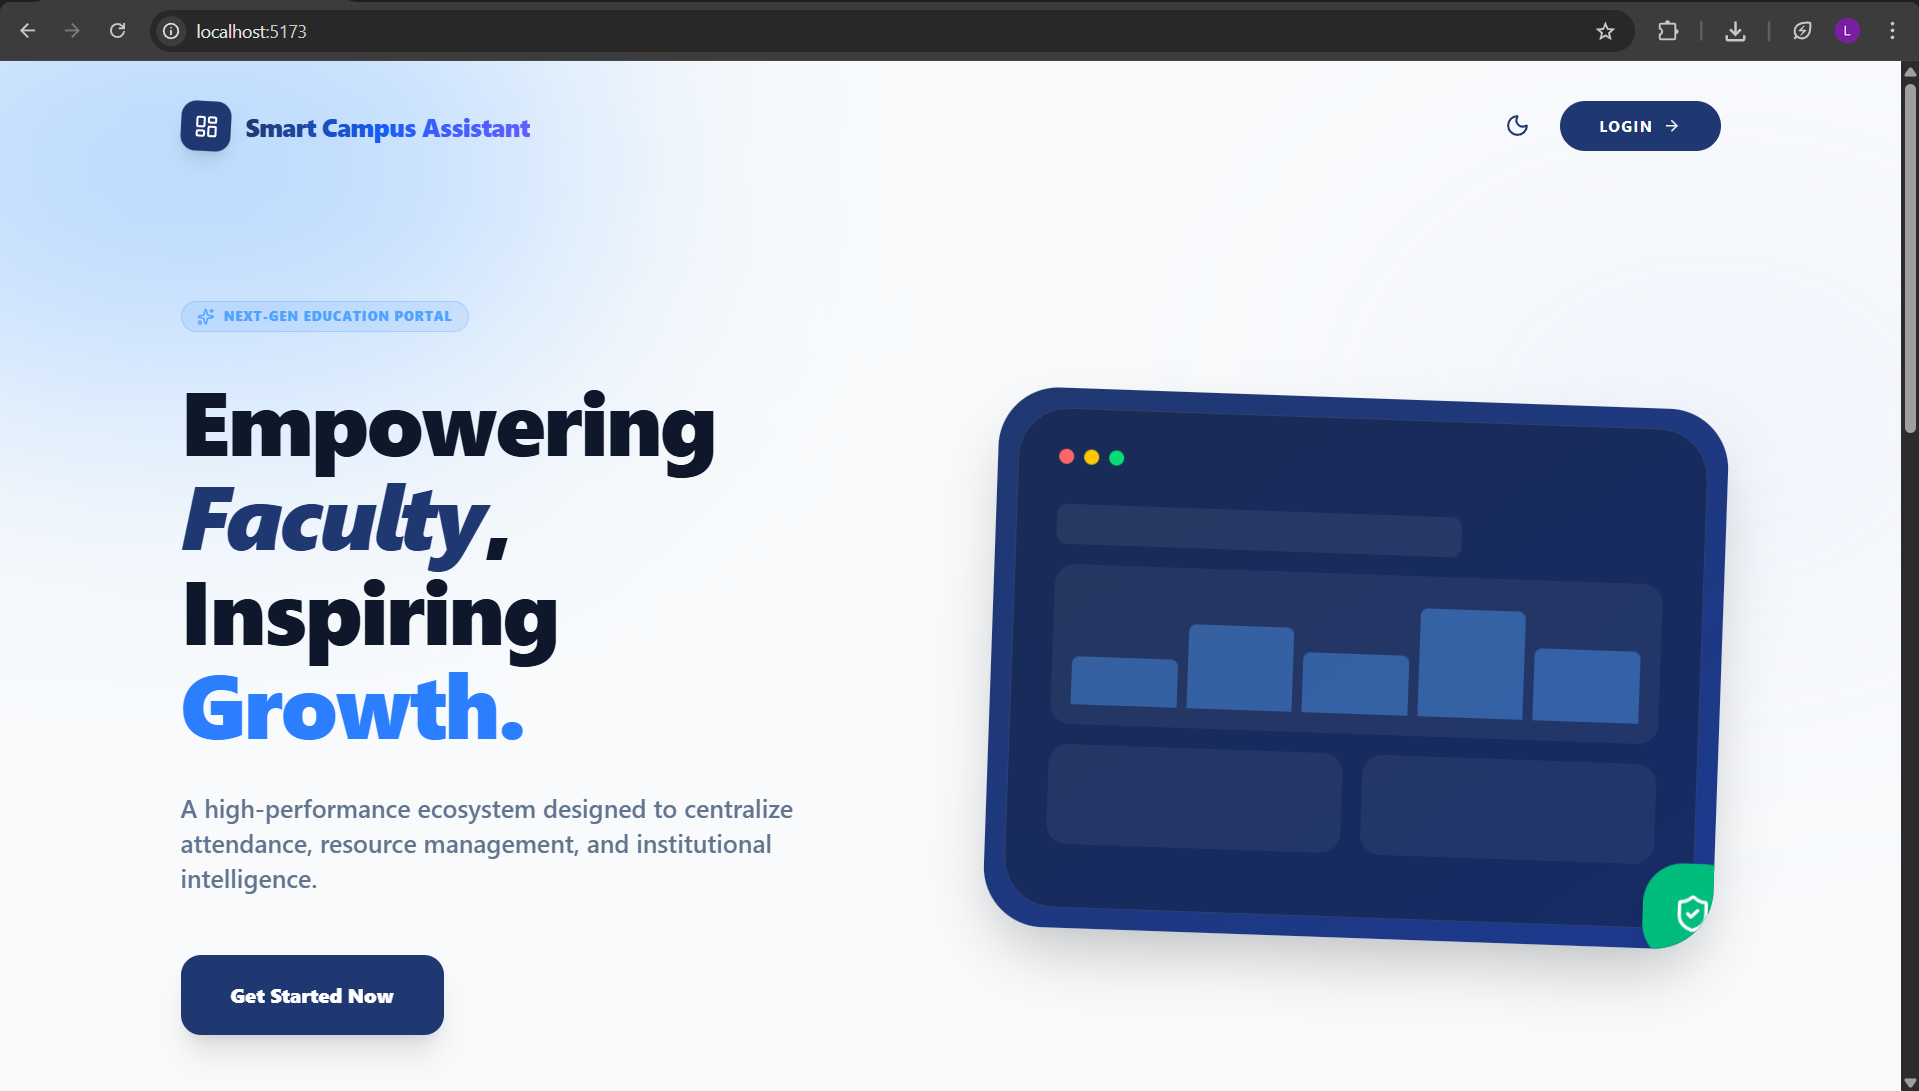
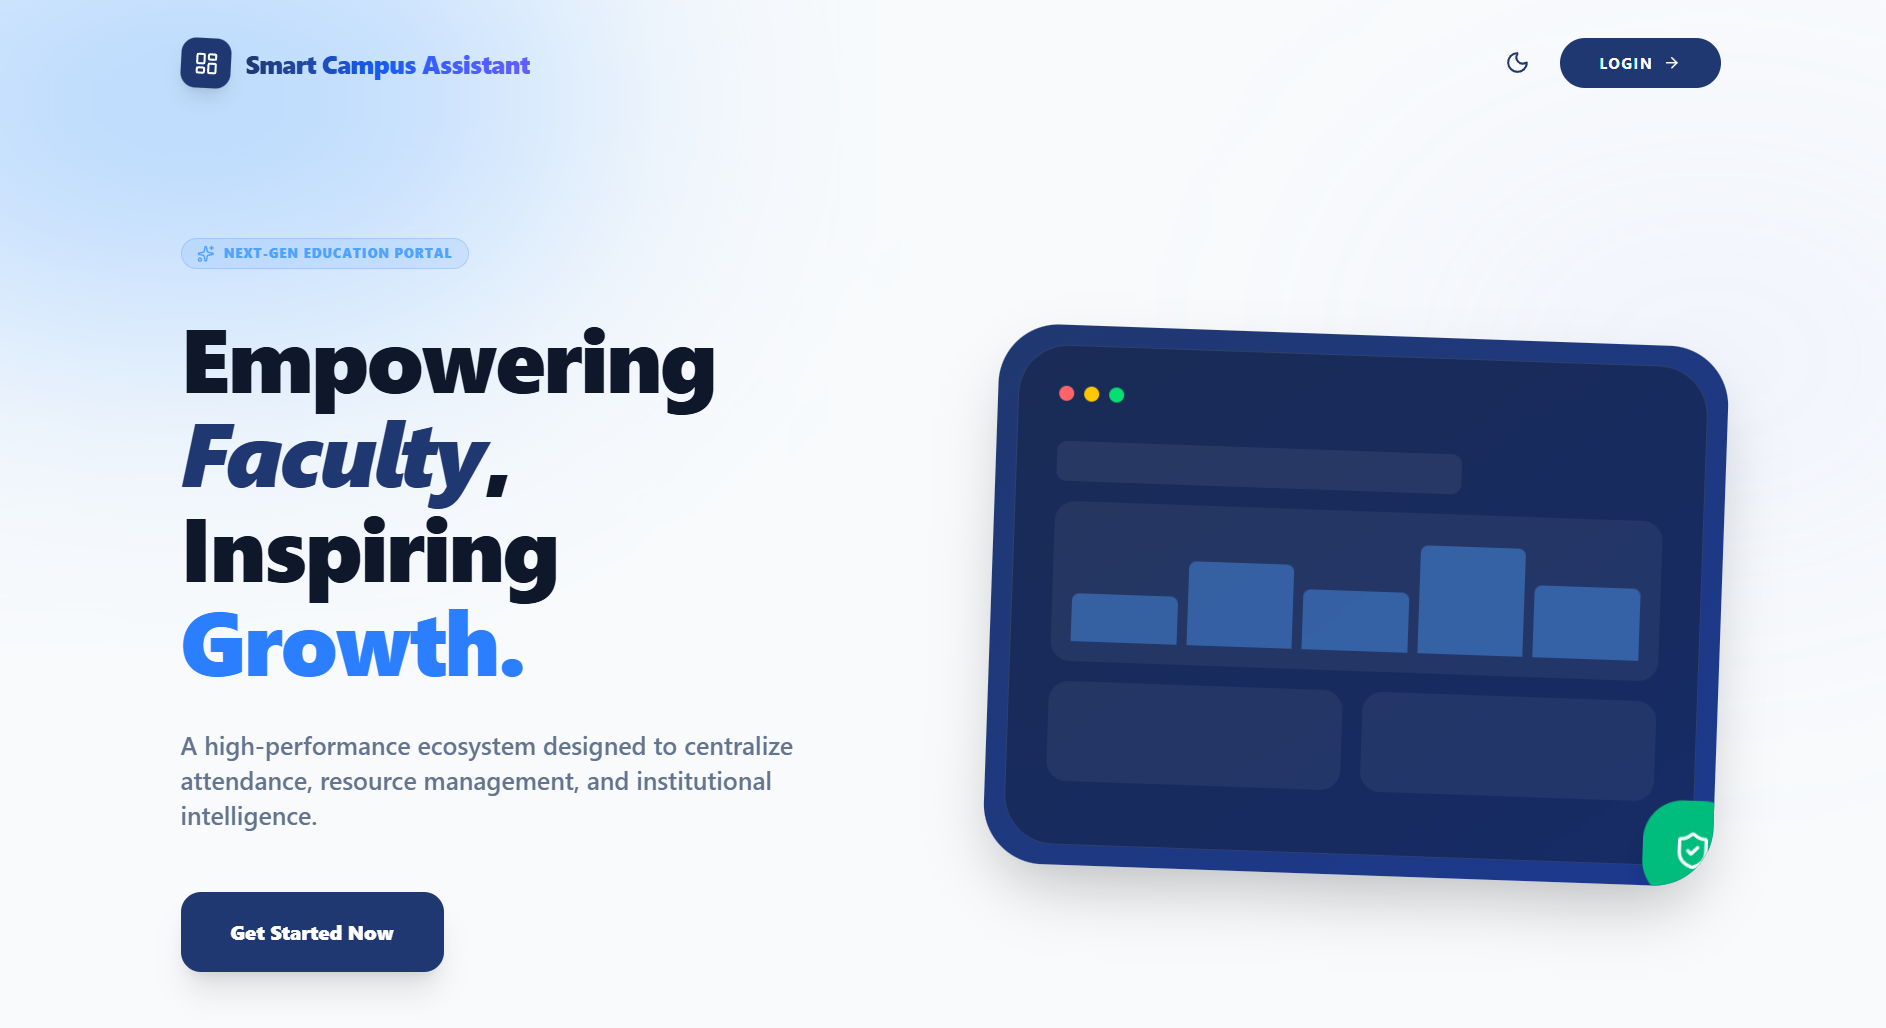
Added SCA-MERN links

diff --git a/src/data/projects.ts b/src/data/projects.ts
@@ -87,8 +87,8 @@ export const projects: Project[] = [
       "Tailwind CSS",
       "Postman",
     ],
-    github: "",
-    liveDemo: "",
+    github: "https://github.com/harshrajsinhvaghela7586/Smart-Campus-Assistant-MERN",
+    liveDemo: "https://smart-campus-assistant-eight.vercel.app",
     status: "Coming Soon",
   },
   {
